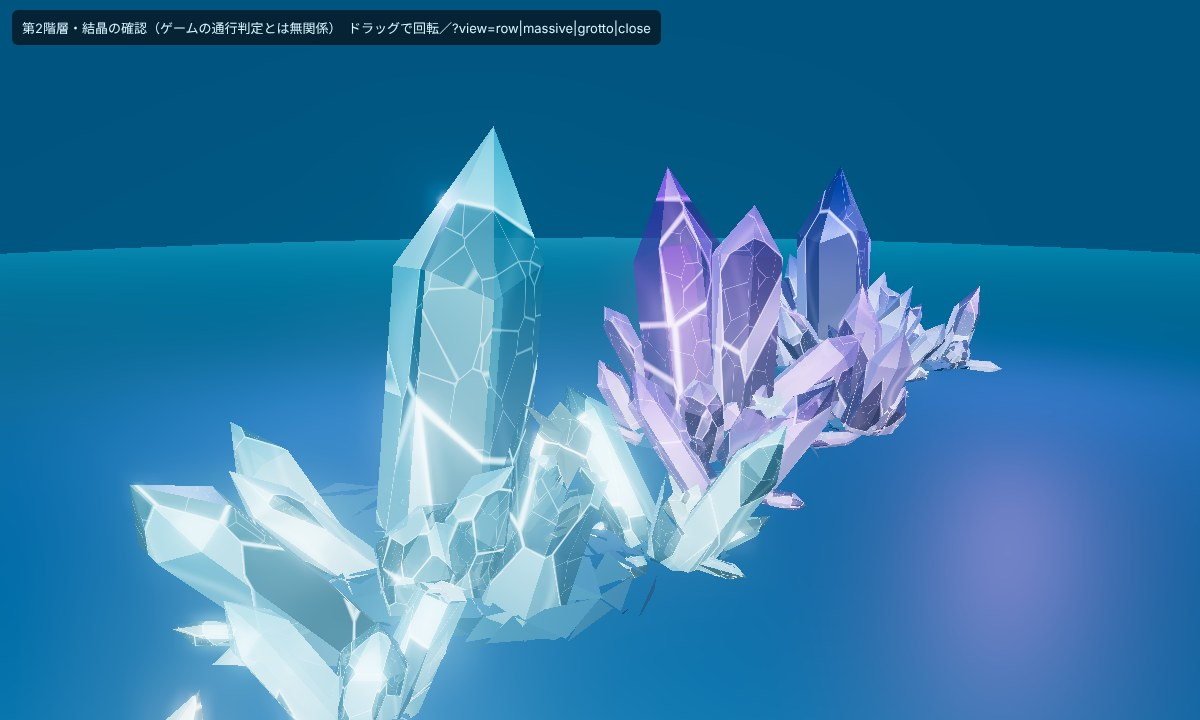
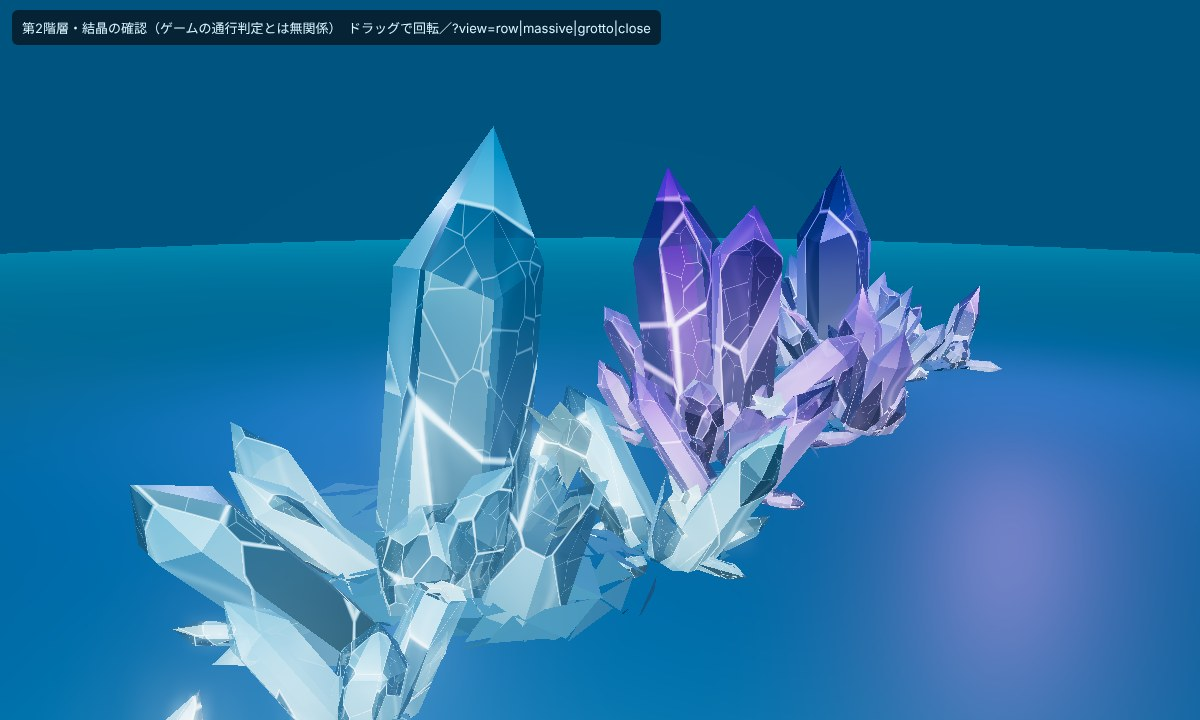
B2: 結晶の先端の色を濃く（深い水色・濃いアメシスト・群青）
Claude-Session: https://claude.ai/code/session_01B5gNCGmr7UqvVkWBnkLkde

Changed region(s): [[0.0617, 0.1833, 0.8325, 1.0]]

diff --git a/field/b2-crystals.js b/field/b2-crystals.js
@@ -16,10 +16,11 @@ import { ConvexGeometry } from 'three/addons/geometries/ConvexGeometry.js';
 
 // 色：base＝根元（乳白）、tip＝先端、core＝芯の光
 export const CRYSTAL_PALETTES = {
-  white: { base: 0xf7fbff, tip: 0xdbeeff, core: 0xb8d6ee },    // 透明な水晶（ほぼ無色、少し青白い）
-  cyan: { base: 0xd8f8ff, tip: 0x22ccff, core: 0x2fb8e8 },     // 水色
-  violet: { base: 0xeee2ff, tip: 0x8a48ff, core: 0x8f5cf0 },   // 紫（アメシスト）
-  blue: { base: 0xdfe8ff, tip: 0x2f5cff, core: 0x3f68e8 },     // 青
+  // 先端（tip）は濃く深い色。根元の乳白から先へ向かって一気に濃くなる
+  white: { base: 0xf7fbff, tip: 0xbcdcff, core: 0x9cc4ea },    // 透明な水晶（先端だけ薄い青）
+  cyan: { base: 0xd2f6ff, tip: 0x0096d6, core: 0x0a8cc8 },     // 水色（先端は深い水色）
+  violet: { base: 0xeadcff, tip: 0x5a12c8, core: 0x6a2ad8 },   // 紫（先端は濃いアメシスト）
+  blue: { base: 0xd8e4ff, tip: 0x1230c8, core: 0x2244d8 },     // 青（先端は群青）
 };
 export const CRYSTAL_PARTS = ['shell', 'cloudy', 'fracture', 'core', 'rock'];
 
@@ -92,8 +93,8 @@ function paint(geo, pal, kind, yMin, yMax) {
     const t = THREE.MathUtils.clamp((p.getY(i) - yMin) / Math.max(1e-3, yMax - yMin), 0, 1);
     if (kind === 'core') { c.copy(a).lerp(b, 0.8 + t * 0.2).multiplyScalar(0.7 + t * 0.25); }
     else if (kind === 'fracture') { c.copy(a).lerp(b, Math.pow(t, 0.7) * 0.5).lerp(w, 0.35); }
-    else if (kind === 'cloudy') { c.copy(a).lerp(b, 0.3 + Math.pow(t, 0.9) * 0.55); }
-    else c.copy(a).lerp(b, 0.4 + Math.pow(t, 0.7) * 0.6);   // 根元から色を残す（白く飛ばない）
+    else if (kind === 'cloudy') { c.copy(a).lerp(b, 0.3 + Math.pow(t, 0.6) * 0.7); }
+    else c.copy(a).lerp(b, 0.4 + Math.pow(t, 0.5) * 0.6);   // 根元から色を残し、上半分はほぼ先端の濃い色
     col.set([c.r, c.g, c.b], i * 3);
   }
   geo.setAttribute('color', new THREE.BufferAttribute(col, 3));
